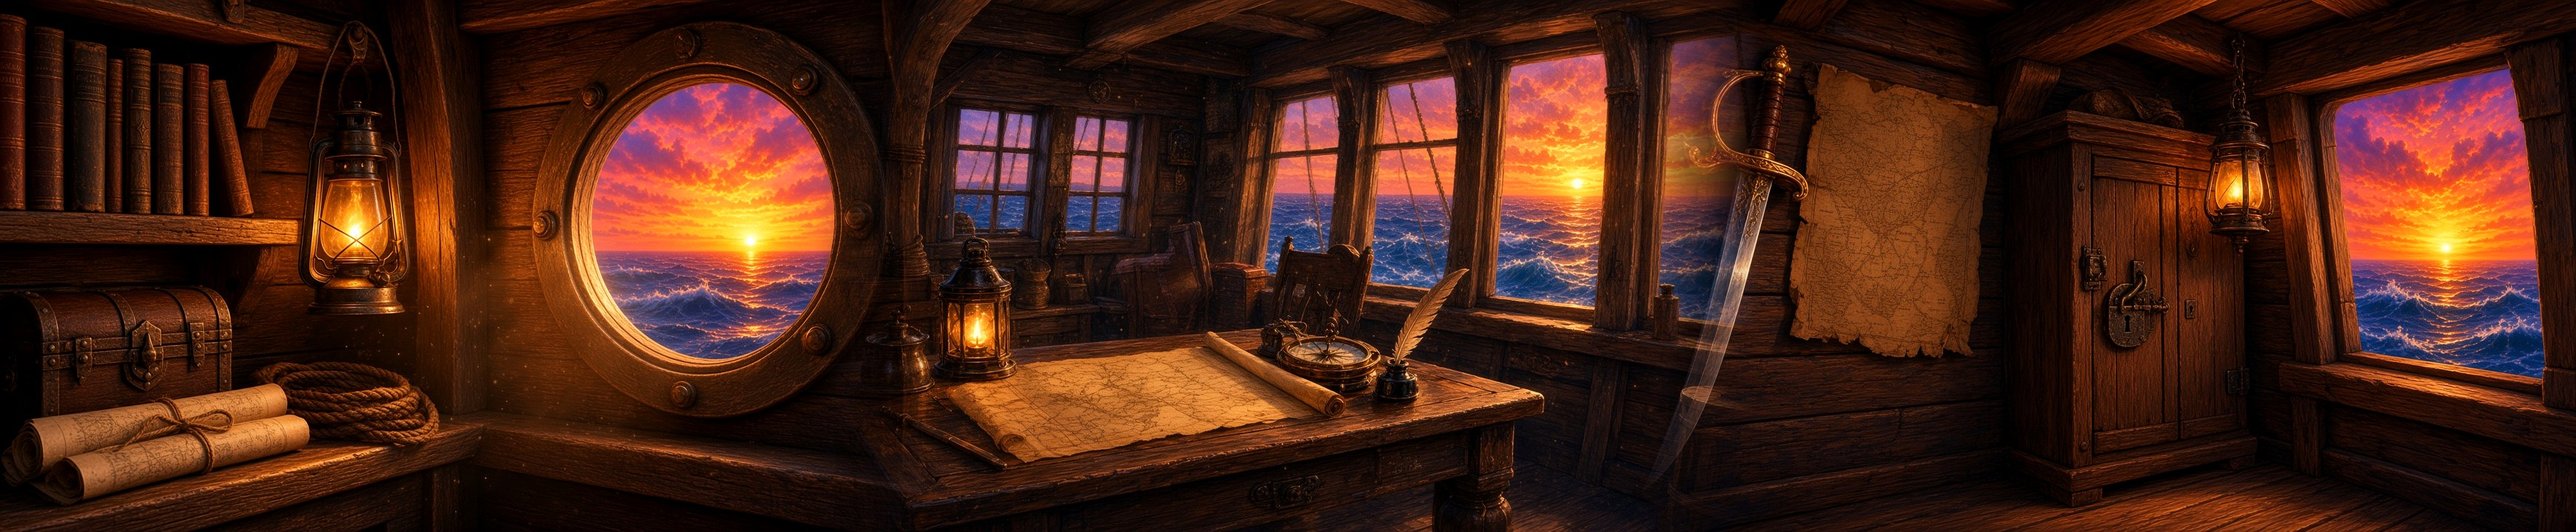
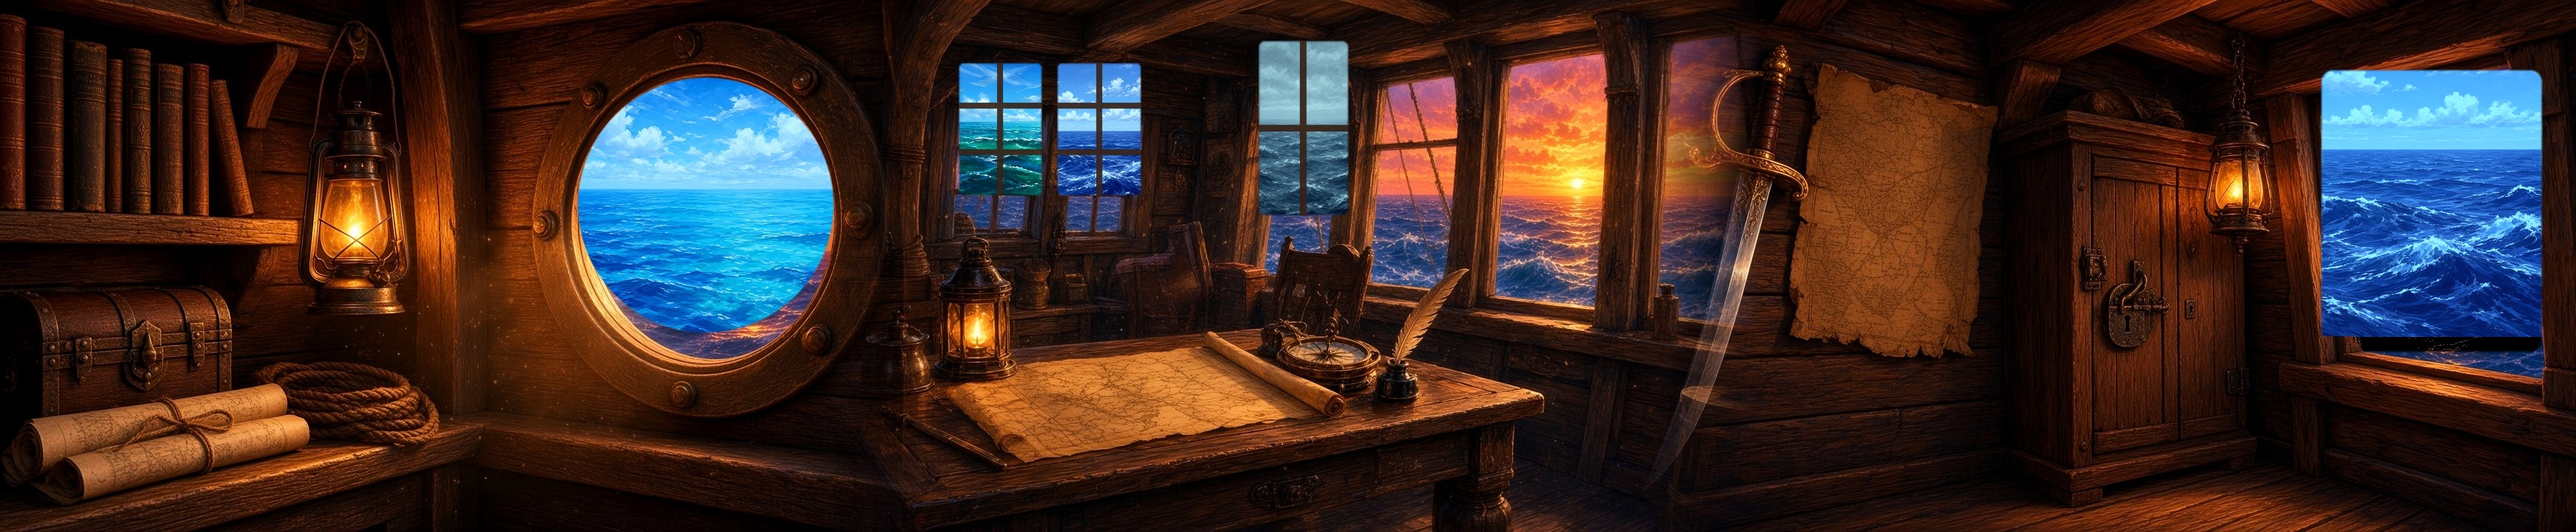
Limit cabin sunset to sword-adjacent windows (#22)
Replace other panorama windows with distinct daytime ocean views and cache-bump cabin assets.

Changed region(s): [[0.2172, 0.1222, 0.3414, 0.6417], [0.9, 0.1222, 0.9931, 0.6722], [0.3724, 0.0611, 0.5276, 0.4278]]

diff --git a/pirates-cabin.html b/pirates-cabin.html
@@ -10,7 +10,7 @@
       href="https://fonts.googleapis.com/css2?family=Figtree:wght@400;500;600&family=Libre+Baskerville:ital,wght@0,400;0,700;1,400&family=Pirata+One&display=swap"
       rel="stylesheet"
     />
-    <link rel="stylesheet" href="pirate-treasures.css?v=32" />
+    <link rel="stylesheet" href="pirate-treasures.css?v=33" />
   </head>
   <body class="pirate-page cabin-page">
     <header class="cabin-hud">
@@ -33,8 +33,8 @@
           <img
             class="cabin-pano"
             id="cabin-pano"
-            src="images/cabin-panorama.jpg"
-            alt="Painterly view of the empty captain’s cabin overlooking a sunset sea"
+            src="images/cabin-panorama.jpg?v=2"
+            alt="Painterly view of the empty captain’s cabin with ocean windows; sunset only beside the sword"
             draggable="false"
           />
           <a
